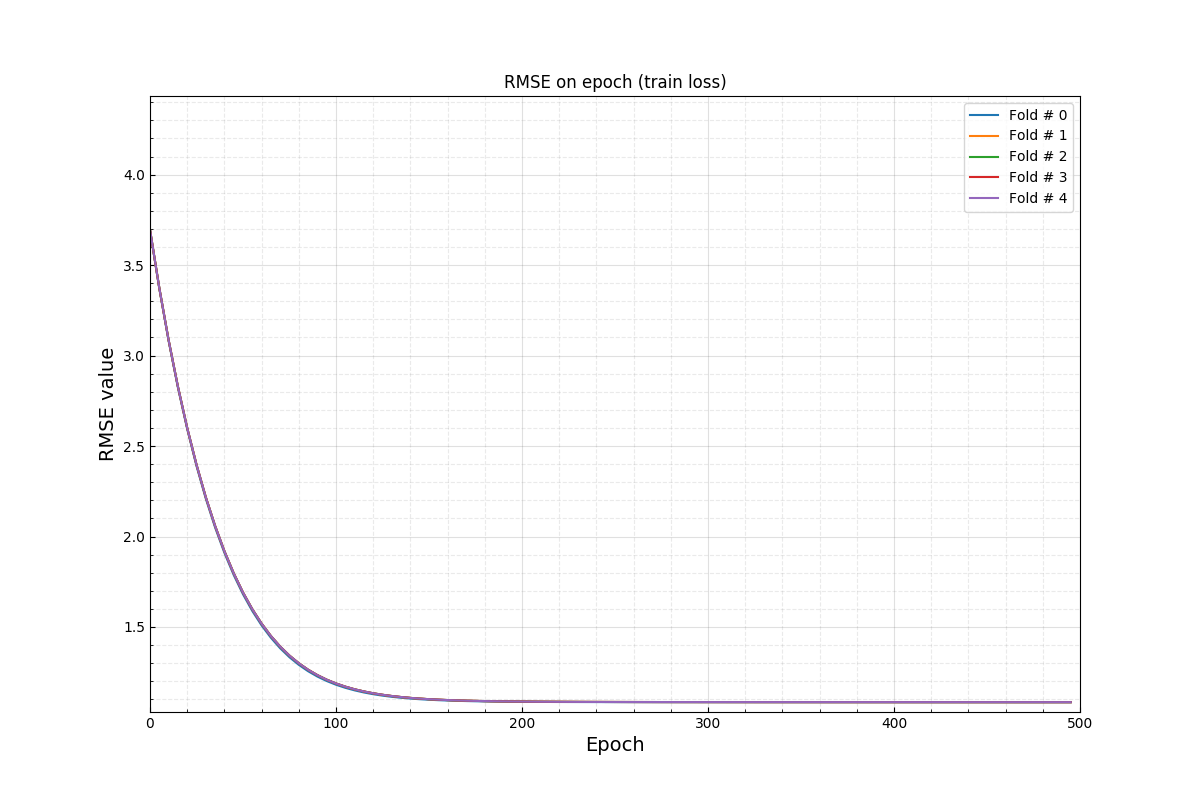
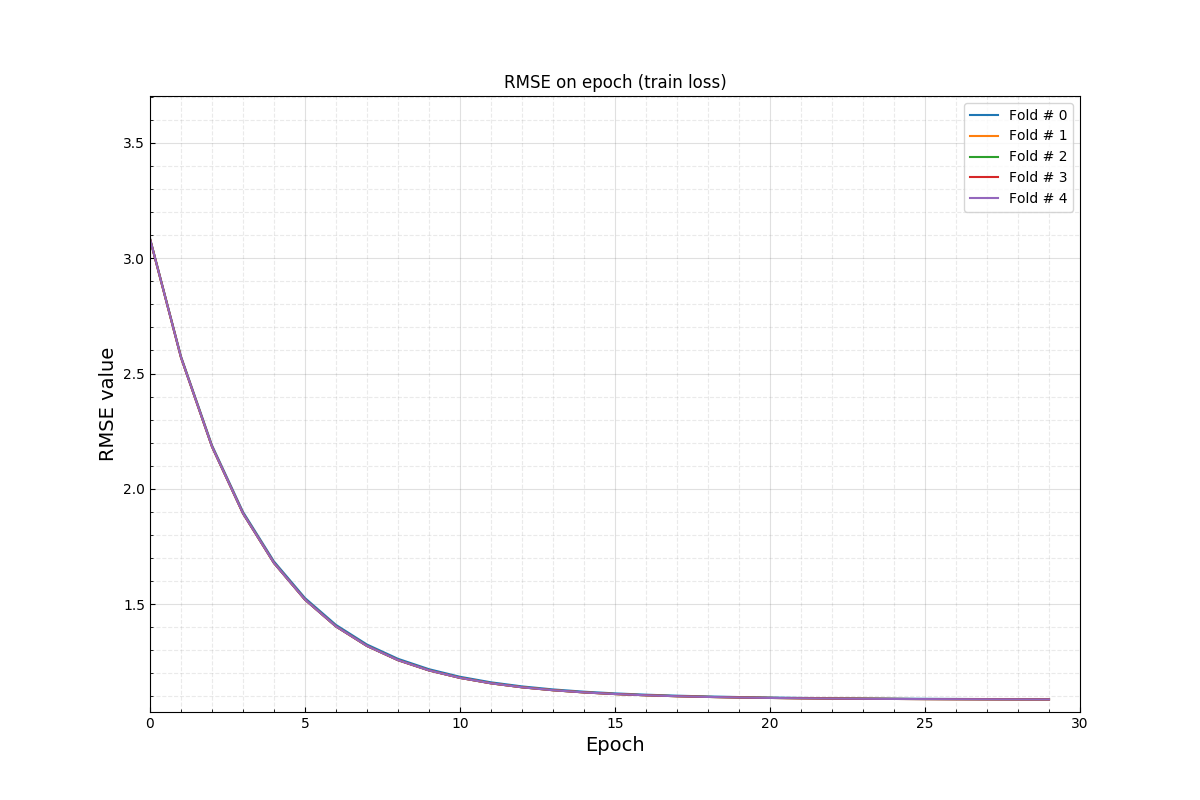
opt einsum

diff --git a/Src/FactorizationMachine.py b/Src/FactorizationMachine.py
@@ -1,4 +1,5 @@
 import numpy as np
+import opt_einsum as oe
 from Model import Model
 
 
@@ -38,8 +39,9 @@ class FactorizationMachine(Model):
         x2t = xt.power(2)
         diff_vx2 = np.multiply(self.__v, x2t.dot(diff_part).reshape((self._num_features, 1)))
 
-        x_batch_dense = np.array(x_batch.todense())
-        diff_xvx = np.einsum('b,bi,bf->if', diff_part, x_batch_dense, m)
+        #x_batch_dense = np.array(x_batch.todense())
+        #diff_xvx = np.einsum('b,bi,bf->if', diff_part, x_batch_dense, m)
+        diff_xvx = oe.contract('b,bi,bf->if', diff_part, x_batch, m)
 
         #batch_range = range(batch_size)
         #diff_xvx = np.zeros((self._num_features, self._num_factors), dtype=np.float)

diff --git a/Analysis/analyze_loss.py b/Analysis/analyze_loss.py
@@ -42,7 +42,7 @@ if __name__ == '__main__':
     epochs = 30
     epoch_quant = 30
     print(metric_data.shape)
-    plotLoss(metric_data, epochs, epoch_quant, True, True)  # always RMSE
+    plotLoss(metric_data, epochs, epoch_quant, True, False)  # always RMSE
     
     batch = 0
     rows = [metric_data[batch, :, -1, 0, 1],   # RMSE val 

diff --git a/Src/Main.py b/Src/Main.py
@@ -6,7 +6,7 @@ import DatasetToolbox as dt
 
 
 
-DATASET = 'netflix'
+DATASET = 'movielens_small'
 
 if DATASET == 'netflix':
     NUM_FEATURES = 17770 + 2649429   # number of features
